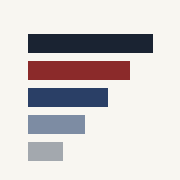
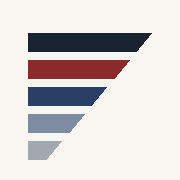
Beveled stripe mark, UTA email, hero stripes

diff --git a/index.html b/index.html
@@ -46,6 +46,7 @@
   .brand { text-decoration: none; display: flex; align-items: center; gap: 12px; }
   .brand b { font-size: 14px; font-weight: 600; letter-spacing: 4px; text-transform: uppercase; }
   .chev { display: flex; flex-direction: column; gap: 3px; }
+  .chev span { clip-path: polygon(0 0, 100% 0, calc(100% - 2px) 100%, 0 100%); }
   .chev span { display: block; height: 3px; transform-origin: left center; animation: grow .9s cubic-bezier(.2,.7,.2,1) both; }
   nav { display: flex; flex-wrap: wrap; gap: 6px 24px; font-size: 14px; }
   nav a { text-decoration: none; padding: 6px 0; }
@@ -56,6 +57,7 @@
   .hero-row { display: flex; flex-wrap: wrap; align-items: center; justify-content: space-between; gap: 40px; }
   .hero-row h1 { flex: 1 1 520px; }
   .stripes { flex: 0 1 440px; display: flex; flex-direction: column; gap: 9px; padding-right: 8px; }
+  .stripes span { clip-path: polygon(0 0, 100% 0, calc(100% - 13px) 100%, 0 100%); }
   .stripes span { display: block; height: 16px; transform-origin: left center; animation: grow 1.1s cubic-bezier(.2,.7,.2,1) both; transition: width .25s ease-out; }
   @media (max-width: 640px) { .stripes { display: none; } }
   .line { height: 2px; background: var(--navy); margin: 48px 0 40px; transform-origin: left; animation: grow 1.1s .3s cubic-bezier(.2,.7,.2,1) both; }
